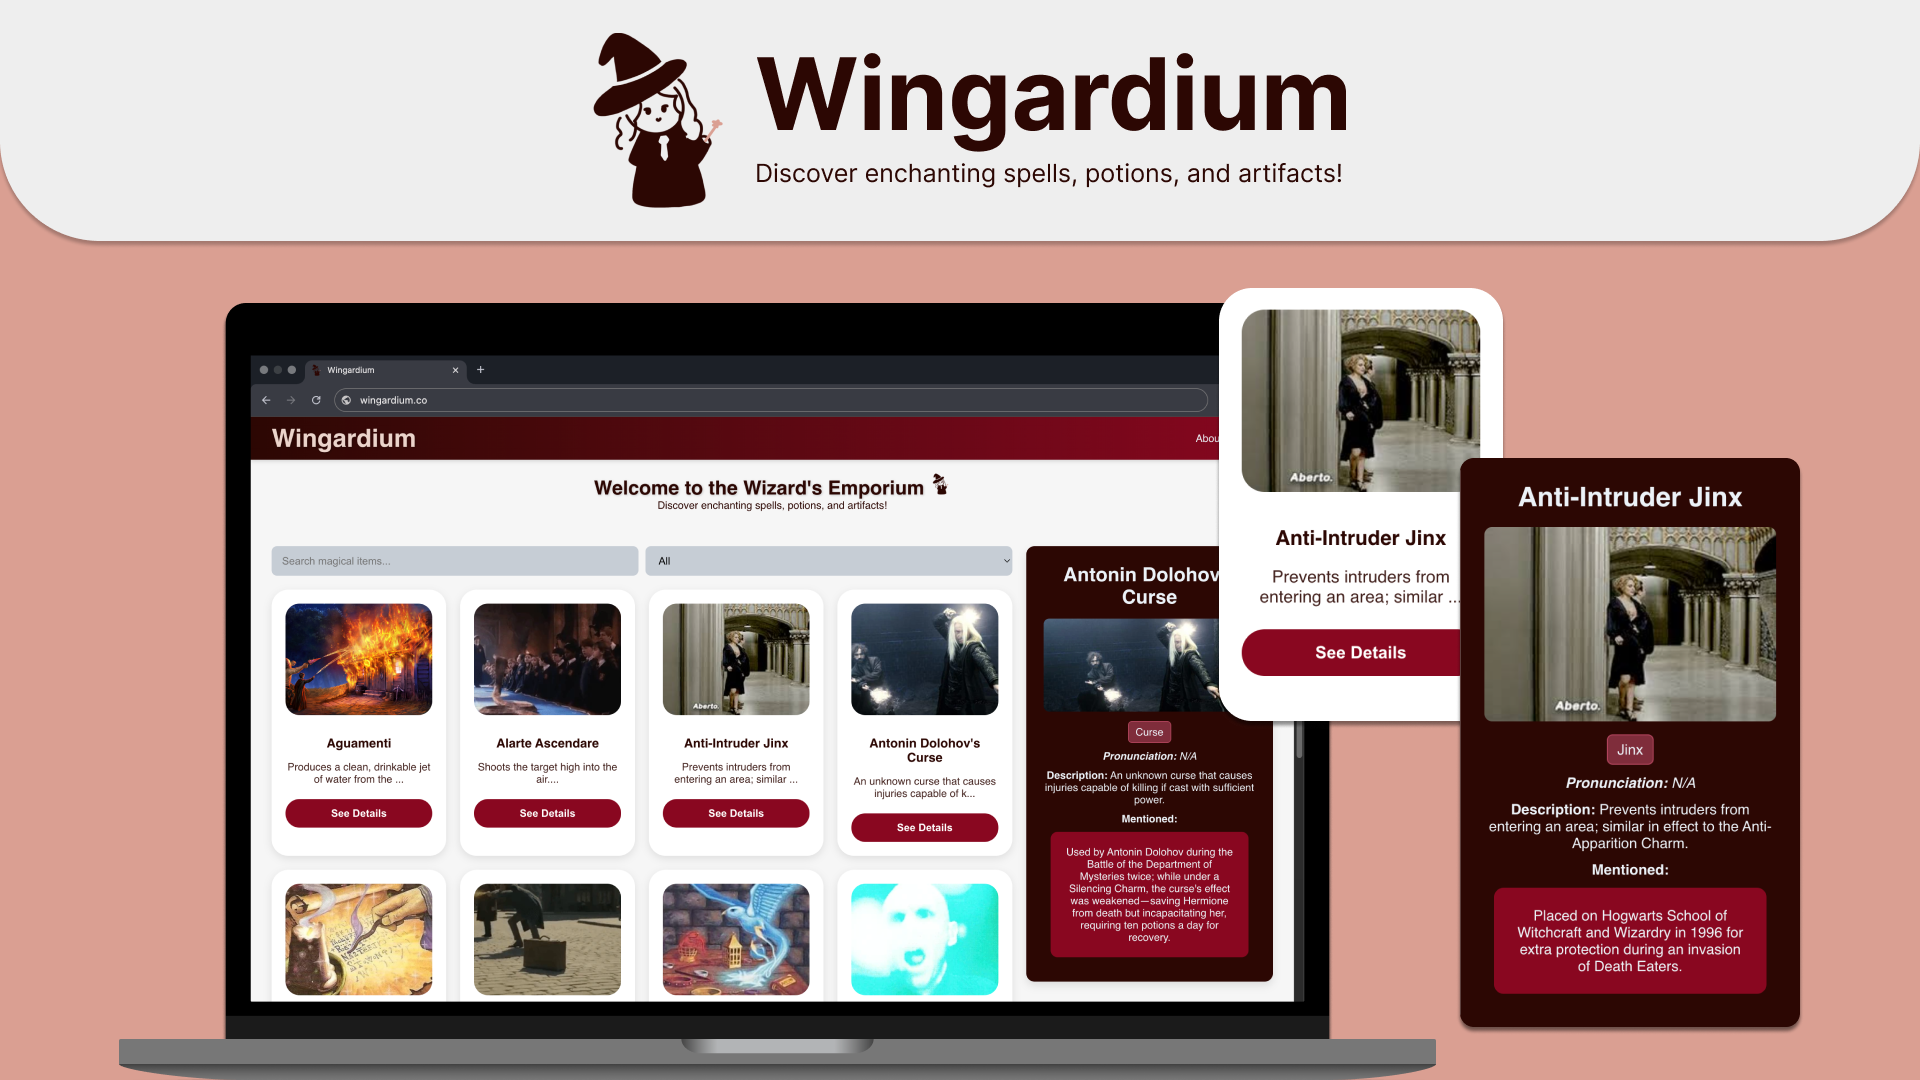
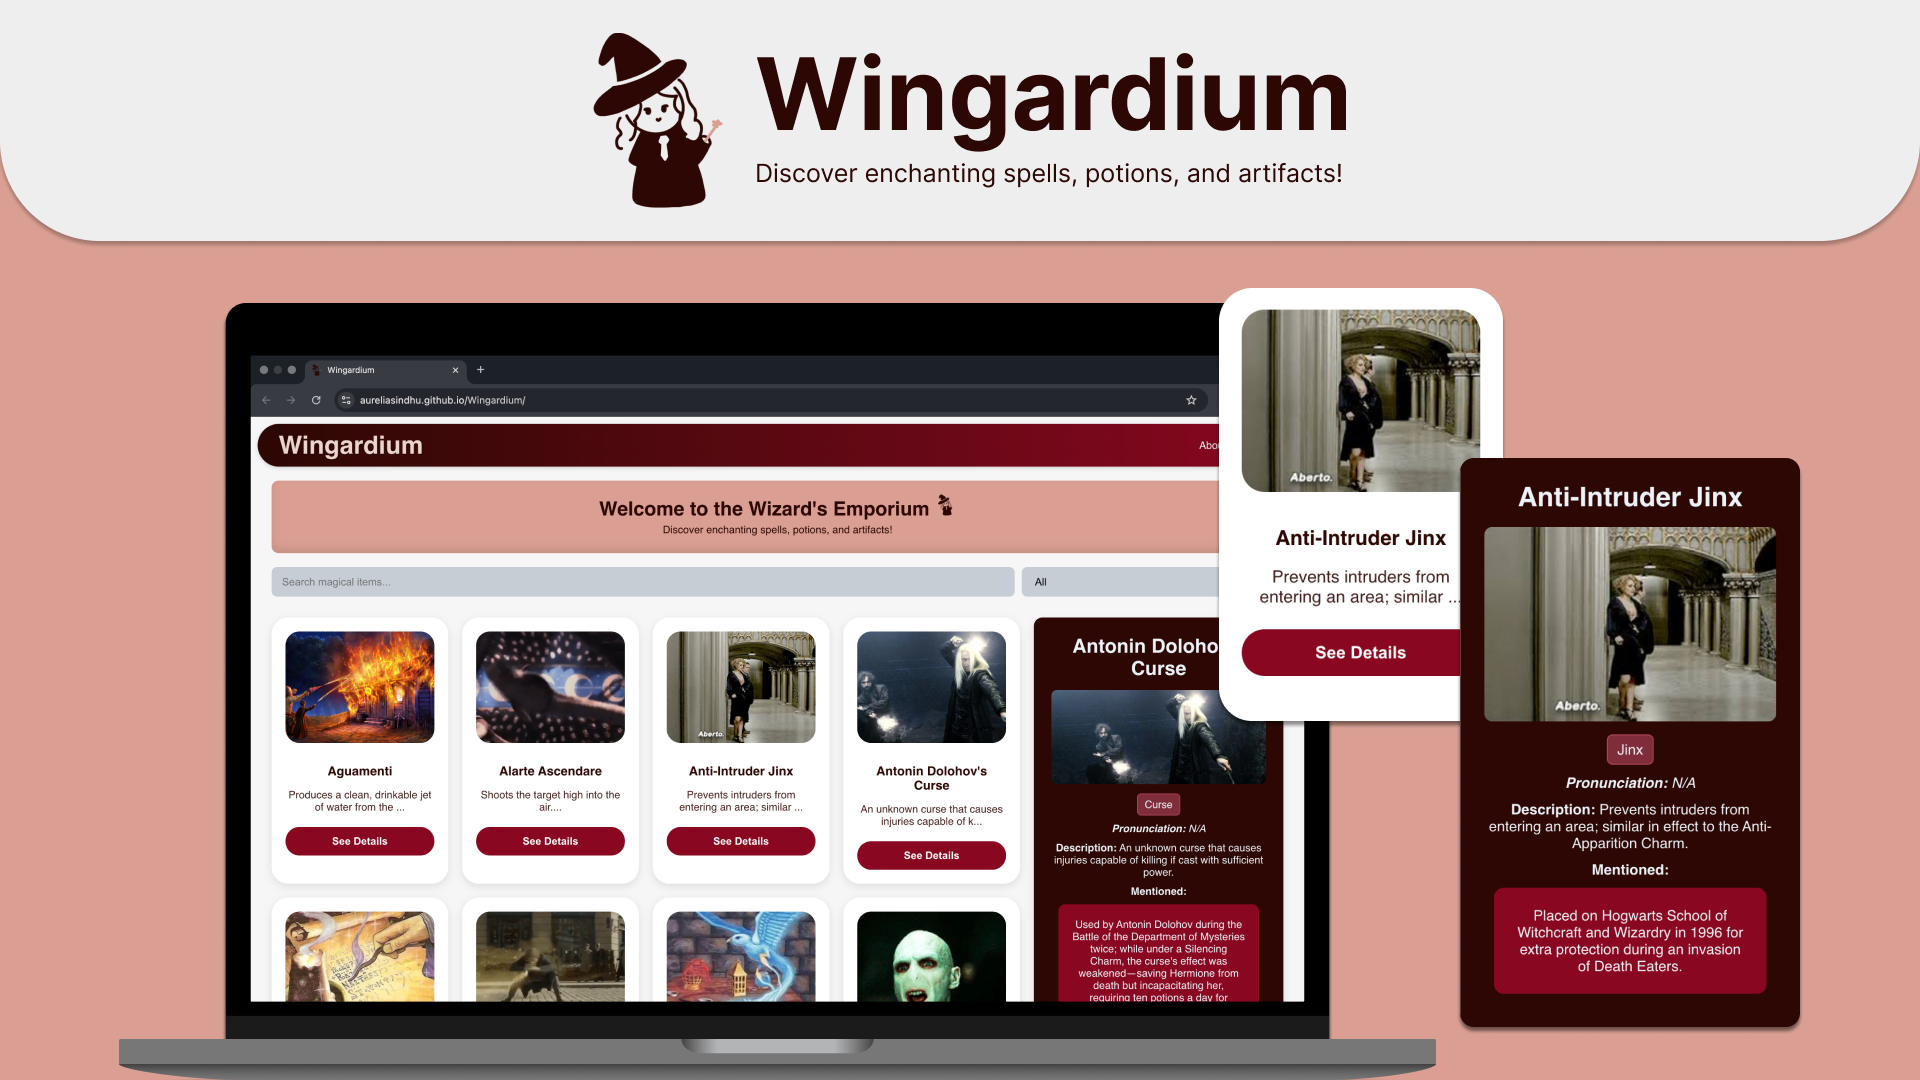
fix: readme

Changed region(s): [[0.125, 0.3667, 0.6875, 0.9472]]

diff --git a/README.md b/README.md
@@ -1,4 +1,4 @@
-# [Wingardium](https://github.com/AureliaSindhu/Wingardium)
+# [Wingardium](https://aureliasindhu.github.io/Wingardium/)
 > ### SEA Stage 2 - Data Catalog Project
 
 <img src="img/thumbnail.png" />
